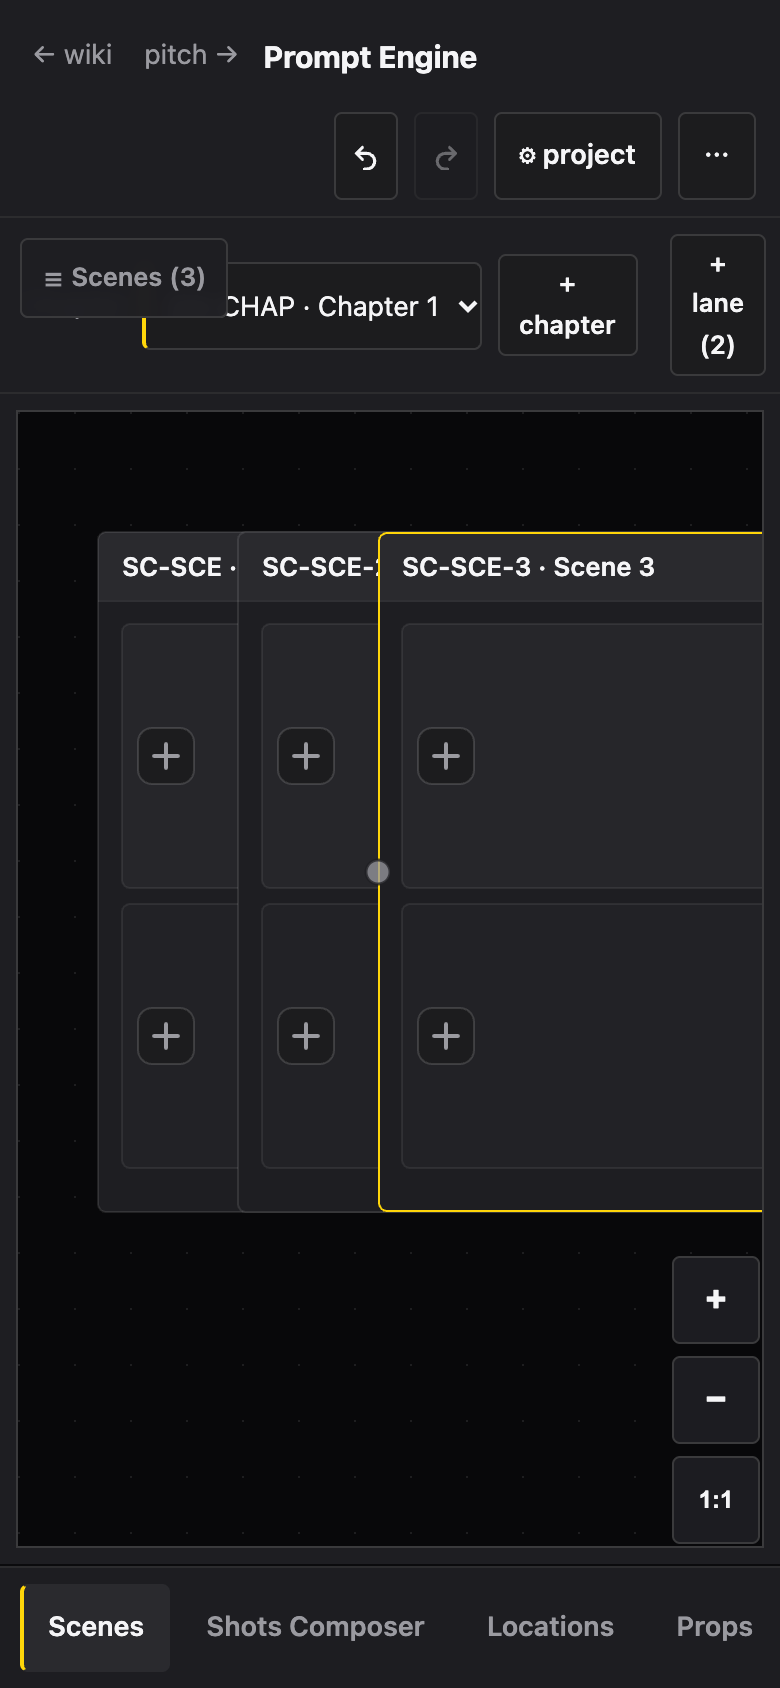
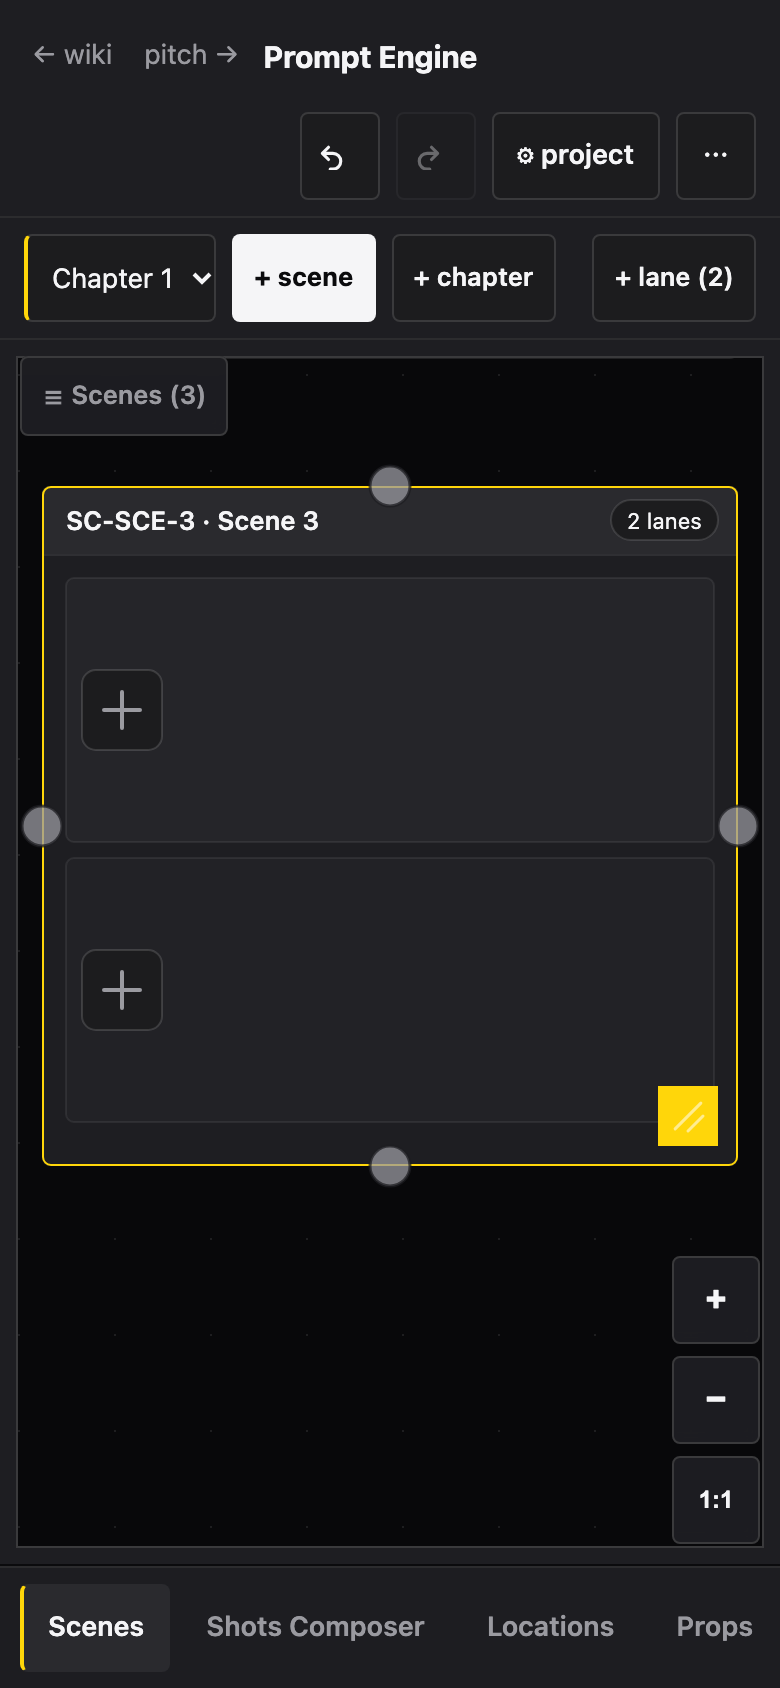
engine: 390 reflow — no clipping, legible labels, 40px targets

diff --git a/engine.html b/engine.html
@@ -386,6 +386,22 @@ header{padding-top:calc(var(--spacing-sm) + env(safe-area-inset-top,0px));paddin
   #zoomCtl{display:flex}
 }
 /* --------------------------------------------------------------------------
+   Phone reflow (<=520px). The board is one column wide here, so the chapter
+   bar puts + scene in the first screen, the redundant "Chapter" field label
+   drops (the select already names the chapter), and glyph-only controls get
+   their 40px hit floor back after flex squeeze.
+   -------------------------------------------------------------------------- */
+@media (max-width:520px){
+  #chapterbar>span:first-child{display:none}
+  #chapterSel{order:1;min-width:0;max-width:31vw}
+  #addScene{order:2}
+  #addChapter{order:3}
+  #chapterbar .sp{order:4}
+  #addLane{order:5}
+  #chapterbar button{white-space:nowrap}
+  #histUndoBtn,#histRedoBtn,#dots,#drawerMenuBtn{min-width:var(--touch-min)}
+}
+/* --------------------------------------------------------------------------
    Focus. One ring for the whole surface: tokens --focus-width / --focus-offset
    on the engine accent. Components below never declare their own outline; the
    only exception is the visually hidden switch input, which paints the ring on
@@ -710,7 +726,7 @@ function loadImage(n,silent){if(!n.imgUrl){n.img=null;if(n)n.imgErr='';return}co
  im.src=n.imgUrl;n.img=im;draw()}
 
 /* ---- canvas ---- */
-function fit(){DPR=Math.min(2,devicePixelRatio||1);W=cv.clientWidth;H=cv.clientHeight;cv.width=W*DPR;cv.height=H*DPR;ctx.setTransform(DPR,0,0,DPR,0,0);draw()}
+function fit(){DPR=Math.min(2,devicePixelRatio||1);W=cv.clientWidth;H=cv.clientHeight;cv.width=W*DPR;cv.height=H*DPR;ctx.setTransform(DPR,0,0,DPR,0,0);try{if(view==='scenes')rebuildChapters()}catch(e){}try{/* phone: the asset chip docks under the chapter bar instead of over it */const ab=document.getElementById('assetBtn'),cb=document.getElementById('chapterbar');if(ab){const nt=narrowBoard()?((cb&&!cb.hidden?cb.offsetHeight:0)+8)+'px':'';if(ab.style.top!==nt)ab.style.top=nt}}catch(e){}draw()}
 addEventListener('resize',fit);
 function addNode(){const m=VIEW_META[view]||VIEW_META.locations;const w=200,h=190;
  const n={id:nextId++,kind:'beat',label:m.one+' '+seq,note:'',anchor:'',promptState:null,x:40+Math.random()*Math.max(40,W-w-80),y:40+Math.random()*Math.max(40,H-h-80),w,h,imgUrl:'',img:null};
@@ -731,9 +747,9 @@ function portPos(n,p){
 function drawPorts(n){if(!n||n!==hoverNode)return;
  for(const p of PORTS){const q=portPos(n,p),hot=!!(hoverPort&&hoverPort.node===n&&hoverPort.port===p);
   ctx.save();ctx.globalAlpha=hot?1:0.75;
-  ctx.beginPath();ctx.arc(q.x,q.y,(hot?8:6)/cam.z,0,Math.PI*2);
+  ctx.beginPath();ctx.arc(q.x,q.y,((hot?8:6)+(narrowBoard()?4:0))/cam.z,0,Math.PI*2);
   ctx.fillStyle=CT(hot?'--color-pro-text-primary':'--color-pro-text-secondary');ctx.fill();ctx.lineWidth=1.5/cam.z;ctx.strokeStyle=CT('--color-pro-surface-1');ctx.stroke();ctx.restore()}}
-function portAt(mx,my){const R=12/cam.z;
+function portAt(mx,my){const R=(narrowBoard()?20:12)/cam.z;
  const check=n=>{for(const p of PORTS){const q=portPos(n,p);if(Math.hypot(mx-q.x,my-q.y)<=R)return{node:n,port:p}}return null};
  if(pending!=null){for(let i=nodes.length-1;i>=0;i--){const hit=check(nodes[i]);if(hit)return hit}return null}
  if(!hoverNode)return null;return check(hoverNode)}
@@ -861,7 +877,7 @@ document.querySelectorAll('#arrowpick button[data-end]').forEach(b=>{b.addEventL
 document.getElementById('apDel').addEventListener('click',e=>{e.stopPropagation();if(!apTarget)return;removeConn(apTarget.id);hidePicker();persist();draw()});
 /* ---- master draw ---- */
 function draw(){if(view==='scenes')return drawScenes();ctx.save();ctx.setTransform(1,0,0,1,0,0);ctx.clearRect(0,0,cv.width,cv.height);ctx.restore();applyCam();
- ctx.fillStyle=WA('--color-neutral-white',9);const _gs=28,_x0=Math.floor(cam.x/_gs)*_gs,_y0=Math.floor(cam.y/_gs)*_gs;
+ ctx.fillStyle=WA('--color-neutral-white',9);const _gs=narrowBoard()?48:28,_x0=Math.floor(cam.x/_gs)*_gs,_y0=Math.floor(cam.y/_gs)*_gs;
  for(let x=_x0;x<cam.x+W/cam.z;x+=_gs)for(let y=_y0;y<cam.y+H/cam.z;y+=_gs)ctx.fillRect(x,y,1/cam.z,1/cam.z);
  conns=conns.filter(c=>nodeById(c.a.id)&&nodeById(c.b.id));
  drawConns();drawTemp();
@@ -1108,17 +1124,24 @@ function attachZoom(){if(cv._zoomOn)return;cv._zoomOn=true;
   cam.x=wx-mx/nz;cam.y=wy-my/nz;cam.z=nz;draw()},{passive:false})}
 function activeChapter(){let c=SCENES.chapters.find(c=>c.id===SCENES.active);if(!c){c=SCENES.chapters[0];if(c)SCENES.active=c.id}return c}
 function sceneById(id){const c=activeChapter();return c?c.scenes.find(s=>s.id===id):null}
-function sceneRect(s){return{x:s.x,y:s.y,w:s.w,h:s.h}}
-function laneRowRect(s,i){return{x:s.x+PAD,y:s.y+TITLE_H+PAD+i*(ROW_H+GAP),w:s.w-PAD*2,h:ROW_H}}
-function plusBtnRect(s,lane){const r=laneRowRect(s,lane);return{x:r.x+8,y:r.y+(r.h-PLUS)/2,w:PLUS,h:PLUS}}
-function handleRect(s){return{x:s.x+s.w-20,y:s.y+s.h-20,w:14,h:14}}
+function narrowBoard(){return W>0&&W<520}
+/* Phone reflow: below 520 CSS px of canvas a scene renders full-bleed to the
+   canvas width (one column). The stored width is untouched, so a desktop board
+   opened on a phone still keeps its 560px cards on the desktop. */
+function sceneW(s){return narrowBoard()?Math.min(s.w||560,Math.max(280,W-2*PAD)):(s.w||560)}
+/* the lane "+" is a canvas-drawn control: 40px at phone width, 28 on desktop */
+function plusSize(){return narrowBoard()?40:PLUS}
+function sceneRect(s){return{x:s.x,y:s.y,w:sceneW(s),h:s.h}}
+function laneRowRect(s,i){return{x:s.x+PAD,y:s.y+TITLE_H+PAD+i*(ROW_H+GAP),w:sceneW(s)-PAD*2,h:ROW_H}}
+function plusBtnRect(s,lane){const r=laneRowRect(s,lane),p=plusSize();return{x:r.x+8,y:r.y+(r.h-p)/2,w:p,h:p}}
+function handleRect(s){const n=narrowBoard();return{x:s.x+sceneW(s)-(n?40:20),y:s.y+s.h-(n?40:20),w:n?30:14,h:n?30:14}}
 function fitTitle(a,b){let t,mw;if(a&&typeof a==='object'&&b&&typeof b.w==='number'){t=String(a.title||'Scene');ctx.font='600 12px system-ui';mw=b.w-20}else{t=String(a==null?'':a);mw=+b||0}
  if(mw>0&&ctx.measureText(t).width>mw){while(t.length&&ctx.measureText(t+'…').width>mw)t=t.slice(0,-1);t+='…'}return t}
-function drawPlusBtn(r){ctx.save();round(r.x,r.y,r.w,r.h,7);ctx.fillStyle=CT('--color-pro-tool');ctx.fill();
+function drawPlusBtn(r){ctx.save();const g=r.w>28?9:6;round(r.x,r.y,r.w,r.h,7);ctx.fillStyle=CT('--color-pro-tool');ctx.fill();
  ctx.strokeStyle=WA('--color-neutral-white',14);ctx.lineWidth=1;ctx.stroke();
  ctx.strokeStyle=CT('--color-pro-text-secondary');ctx.lineWidth=2;ctx.lineCap='round';ctx.beginPath();
- ctx.moveTo(r.x+r.w/2-6,r.y+r.h/2);ctx.lineTo(r.x+r.w/2+6,r.y+r.h/2);
- ctx.moveTo(r.x+r.w/2,r.y+r.h/2-6);ctx.lineTo(r.x+r.w/2,r.y+r.h/2+6);ctx.stroke();ctx.restore()}
+ ctx.moveTo(r.x+r.w/2-g,r.y+r.h/2);ctx.lineTo(r.x+r.w/2+g,r.y+r.h/2);
+ ctx.moveTo(r.x+r.w/2,r.y+r.h/2-g);ctx.lineTo(r.x+r.w/2,r.y+r.h/2+g);ctx.stroke();ctx.restore()}
 function drawSceneBase(s,selected){const r=sceneRect(s),sel=!!selected;
  ctx.save();round(r.x,r.y,r.w,r.h,4);ctx.fillStyle=CT('--color-pro-surface-1');ctx.fill();ctx.restore();
  ctx.save();round(r.x,r.y,r.w,r.h,4);ctx.clip();ctx.fillStyle=CT('--color-pro-surface-2');ctx.fillRect(r.x,r.y,r.w,TITLE_H);
@@ -1140,11 +1163,12 @@ function drawSceneBase(s,selected){const r=sceneRect(s),sel=!!selected;
  ctx.fillStyle=sel?CT('--color-pro-selection'):CT('--color-pro-surface-2');ctx.fillRect(hr.x,hr.y,hr.w,hr.h);
  ctx.strokeStyle=sel?CT('--color-pro-selection'):WA('--color-neutral-black',50);ctx.lineWidth=1;ctx.strokeRect(hr.x+.5,hr.y+.5,hr.w-1,hr.h-1);
  ctx.strokeStyle=WA('--color-neutral-white',55);ctx.lineWidth=1.5;ctx.lineCap='round';ctx.beginPath();
- ctx.moveTo(hr.x+4,hr.y+10);ctx.lineTo(hr.x+10,hr.y+4);ctx.moveTo(hr.x+7,hr.y+10.5);ctx.lineTo(hr.x+10.5,hr.y+7);ctx.stroke();ctx.restore();
+ const hs=hr.w/14;
+ ctx.moveTo(hr.x+4*hs,hr.y+10*hs);ctx.lineTo(hr.x+10*hs,hr.y+4*hs);ctx.moveTo(hr.x+7*hs,hr.y+10.5*hs);ctx.lineTo(hr.x+10.5*hs,hr.y+7*hs);ctx.stroke();ctx.restore();
  ctx.strokeStyle=sel?CT('--color-pro-selection'):WA('--color-neutral-white',10);ctx.lineWidth=1;
  if(sel)round(r.x+.5,r.y+.5,r.w-1,r.h-1,4);else round(r.x,r.y,r.w,r.h,4);ctx.stroke()}
-function slotRect(s,lane,idx){return{x:s.x+PAD+PLUS+GAP+idx*(THUMB+GAP),y:s.y+TITLE_H+PAD+lane*(ROW_H+GAP)+(ROW_H-THUMB)/2,w:THUMB,h:THUMB}}
-function rowCap(s){const avail=s.w-PAD*2-PLUS-GAP;return Math.max(1,Math.floor((avail+GAP)/(THUMB+GAP)))}
+function slotRect(s,lane,idx){return{x:s.x+PAD+plusSize()+GAP+idx*(THUMB+GAP),y:s.y+TITLE_H+PAD+lane*(ROW_H+GAP)+(ROW_H-THUMB)/2,w:THUMB,h:THUMB}}
+function rowCap(s){const avail=sceneW(s)-PAD*2-plusSize()-GAP;return Math.max(1,Math.floor((avail+GAP)/(THUMB+GAP)))}
 function slotXRect(s,lane,idx){const r=slotRect(s,lane,idx);return{x:r.x+r.w-20,y:r.y+2,w:18,h:18}}
 function allChapters(){try{if(typeof SCENES!=='undefined'&&SCENES&&Array.isArray(SCENES.chapters))return SCENES.chapters}catch(e){}return[]}
 var _slotImgCache={};
@@ -1191,7 +1215,7 @@ function handleSlotClick(s,mx,my){const lanes=s.lanes||0;
    if(mx>=xr.x-3&&mx<=xr.x+xr.w+3&&my>=xr.y-3&&my<=xr.y+xr.h+3){unassignSlot(s,list[idx].shot);return true}}}
  const hit=slotAt(s,mx,my);
  if(hit){openSlotDrawer(hit.shot,s,hit.lane);return true}
- if(mx>=s.x&&mx<=s.x+s.w){const lane=laneAtY(s,my);
+ if(mx>=s.x&&mx<=s.x+sceneW(s)){const lane=laneAtY(s,my);
   if(lane>=0){const sa=w2s(mx,my);openShotPicker(s,lane,sa.x,sa.y);return true}}return false}
 var _shotPickEl=null,_shotPickOut=null,_shotPickEsc=null;
 function closeShotPicker(){if(_shotPickEl&&_shotPickEl.parentNode)_shotPickEl.parentNode.removeChild(_shotPickEl);_shotPickEl=null;
@@ -1232,7 +1256,7 @@ function drawScenes(){ctx.save();ctx.setTransform(1,0,0,1,0,0);ctx.clearRect(0,0
  const c=activeChapter();if(!c){SCENES=defaultScenes();const d0=activeChapter();conns=(d0&&d0.conns)||[];persist();syncUI();draw();return}
  if(!c.scenes.length){ctx.fillStyle=CT('--color-pro-text-secondary');ctx.font='14px system-ui';ctx.textAlign='center';
   const _ec=s2w(W/2,H/2);ctx.textBaseline='middle';ctx.fillText('empty chapter — + scene to lay out the sequence',_ec.x,_ec.y);return}
- ctx.fillStyle=WA('--color-neutral-white',9);const _gs=28,_x0=Math.floor(cam.x/_gs)*_gs,_y0=Math.floor(cam.y/_gs)*_gs;
+ ctx.fillStyle=WA('--color-neutral-white',9);const _gs=narrowBoard()?48:28,_x0=Math.floor(cam.x/_gs)*_gs,_y0=Math.floor(cam.y/_gs)*_gs;
  const _x1=cam.x+W/cam.z,_y1=cam.y+H/cam.z;
  for(let gx=_x0;gx<_x1;gx+=_gs)for(let gy=_y0;gy<_y1;gy+=_gs)ctx.fillRect(gx,gy,1/cam.z,1/cam.z);
  for(const s of c.scenes){drawSceneBase(s,s===selStrip);drawSlots(s)}
@@ -1241,14 +1265,14 @@ function drawScenes(){ctx.save();ctx.setTransform(1,0,0,1,0,0);ctx.clearRect(0,0
  const _lt='+ lane ('+((selStrip&&selStrip.lanes)||'—')+')';
  const _b=document.getElementById('addLane');if(_b.textContent!==_lt)_b.textContent=_lt;
  try{syncCardBtn()}catch(e){}}
-function scenePortPos(s,p){if(p==='t')return{x:s.x+s.w/2,y:s.y};
- if(p==='b')return{x:s.x+s.w/2,y:s.y+s.h};if(p==='l')return{x:s.x,y:s.y+s.h/2};return{x:s.x+s.w,y:s.y+s.h/2}}
+function scenePortPos(s,p){const w=sceneW(s);if(p==='t')return{x:s.x+w/2,y:s.y};
+ if(p==='b')return{x:s.x+w/2,y:s.y+s.h};if(p==='l')return{x:s.x,y:s.y+s.h/2};return{x:s.x+w,y:s.y+s.h/2}}
 function drawScenePorts(s){if(s!==selStrip&&s!==hoverScene&&!pending)return;
  for(const p of PORTS){const q=scenePortPos(s,p);
   const hot=!!(hoverPort&&hoverPort.node===s&&hoverPort.port===p)||!!(pending&&pending.node===s&&pending.port===p);
-  ctx.save();ctx.globalAlpha=hot?1:0.75;ctx.beginPath();ctx.arc(q.x,q.y,(hot?8:6)/cam.z,0,Math.PI*2);
+  ctx.save();ctx.globalAlpha=hot?1:0.75;ctx.beginPath();ctx.arc(q.x,q.y,((hot?8:6)+(narrowBoard()?4:0))/cam.z,0,Math.PI*2);
   ctx.fillStyle=CT(hot?'--color-pro-text-primary':'--color-pro-text-secondary');ctx.fill();ctx.lineWidth=1.5/cam.z;ctx.strokeStyle=CT('--color-pro-surface-1');ctx.stroke();ctx.restore()}}
-function scenePortAt(wx,wy){const R=12/cam.z,c=activeChapter();if(!c||!c.scenes)return null;
+function scenePortAt(wx,wy){const R=(narrowBoard()?20:12)/cam.z,c=activeChapter();if(!c||!c.scenes)return null;
  for(let i=c.scenes.length-1;i>=0;i--){const s=c.scenes[i];
   for(const p of PORTS){const q=scenePortPos(s,p);
    if(Math.hypot(wx-q.x,wy-q.y)<=R)return{node:s,port:p}}}return null}
@@ -1279,10 +1303,10 @@ function sceneAt(wx,wy){const c=activeChapter();if(!c||!c.scenes)return null;
   if(wx>=r.x&&wx<=r.x+r.w&&wy>=r.y&&wy<=r.y+r.h)return c.scenes[i]}return null}
 function sceneBodyDown(s,e,wx,wy){const hr=handleRect(s);
  const mode=(wx>=hr.x-5&&wx<=hr.x+hr.w+5&&wy>=hr.y-5&&wy<=hr.y+hr.h+5)?'resize':'move';
- dragS={s,mode,dx:wx-s.x,dy:wy-s.y,sw:s.w,sh:s.h,sx:wx,sy:wy,moved:false};hidePicker();
+ dragS={s,mode,dx:wx-s.x,dy:wy-s.y,sw:sceneW(s),sh:s.h,sx:wx,sy:wy,moved:false};hidePicker();
  try{cv.setPointerCapture(e.pointerId)}catch(err){}cv.style.cursor=mode==='resize'?'nwse-resize':'grabbing'}
 function sceneDragMove(wx,wy){if(Math.hypot(wx-dragS.sx,wy-dragS.sy)>6)dragS.moved=true;const s=dragS.s;
- if(dragS.mode==='resize'){s.w=Math.max(320,dragS.sw+(wx-dragS.sx));s.h=Math.max(220,dragS.sh+(wy-dragS.sy))}
+ if(dragS.mode==='resize'){s.w=Math.max(narrowBoard()?280:320,dragS.sw+(wx-dragS.sx));s.h=Math.max(220,dragS.sh+(wy-dragS.sy))}
  else{s.x=wx-dragS.dx;s.y=wy-dragS.dy}}
 function sceneDragUp(wx,wy){const d=dragS;dragS=null;persist();cv.style.cursor='grab';
  if(!d.moved&&sceneAt(wx,wy)===d.s){clearTimeout(clickT);clickT=setTimeout(()=>openDrawer(d.s),260)}}
@@ -1312,13 +1336,19 @@ function sceneUP(e,sx,sy,wx,wy){
   else pending=null;hoverPort=null;cv.style.cursor='grab';draw();return}
  if(dragS){sceneDragUp(wx,wy);draw();return}}
 function renameScene(s){const v=prompt('Scene title:',s.title||'');if(v!==null&&v.trim()){s.title=v.trim().slice(0,60);persist();draw()}}
+/* Phone reflow: one scene per row, full-bleed width, camera follows the new
+   card. Desktop keeps the 560px card and the offset cascade. */
 function addScene(){const c=activeChapter();if(!c)return null;const id=c.nextScene++;
  const s={id,title:'Scene '+id,scAnchor:'',x:40+((c.scenes.length*70)%400),y:60,w:560,h:340,lanes:2,slots:[]};
+ if(narrowBoard()){s.x=PAD;s.y=64+c.scenes.length*(340+64);s.w=Math.max(280,Math.round(W-2*PAD))}
  s.scAnchor=mintAnchor('SC',s.title);
- c.scenes.push(s);selStrip=s;persist();draw();return s}
+ c.scenes.push(s);selStrip=s;persist();
+ if(narrowBoard()){cam.x=0;cam.y=Math.max(0,s.y-64)}
+ draw();return s}
 /* ---- views: sidebar + chapters ---- */
 function rebuildChapters(){const c=activeChapter(),sel=document.getElementById('chapterSel');sel.innerHTML='';
- for(const ch of SCENES.chapters){const o=document.createElement('option');o.value=ch.id;o.textContent=(ch.chAnchor?ch.chAnchor+' · ':'')+(ch.name||('Chapter '+ch.id));if(ch.id===SCENES.active)o.selected=true;sel.appendChild(o)}
+ const nb=narrowBoard();
+ for(const ch of SCENES.chapters){const o=document.createElement('option');o.value=ch.id;o.textContent=(ch.chAnchor&&!nb?ch.chAnchor+' · ':'')+(ch.name||('Chapter '+ch.id));if(ch.id===SCENES.active)o.selected=true;sel.appendChild(o)}
  document.getElementById('addLane').textContent='+ lane ('+((selStrip&&selStrip.lanes)||'—')+')'}
 function syncUI(){
  document.querySelectorAll('#side button').forEach(b=>b.classList.toggle('on',b.dataset.view===view));

diff --git a/design-system/audit-report.md b/design-system/audit-report.md
@@ -59,7 +59,7 @@ _No violations._
 | 265 | V8 | `padding:1px var(--spacing-xs)` | 1px chip inset is an optical hairline; no 2px step exists |
 | 288 | V8 | `padding:0 0 0 3px` | 3px chip inset cancels the -3px gutter so the token stays flush |
 | 288 | V8 | `margin:0 0 0 -3px` | 3px chip inset cancels the -3px gutter so the token stays flush |
-| 1225 | V3 | `z-index:80` | fixed node-picker popover must clear --z-overlay (60) and stay below --z-canvas (90); no token holds 80 and inventing z.critical for one node would fork the scale |
+| 1228 | V3 | `z-index:80` | fixed node-picker popover must clear --z-overlay (60) and stay below --z-canvas (90); no token holds 80 and inventing z.critical for one node would fork the scale |
 
 ### `design-system/index.html` — Exempt (3)
 
